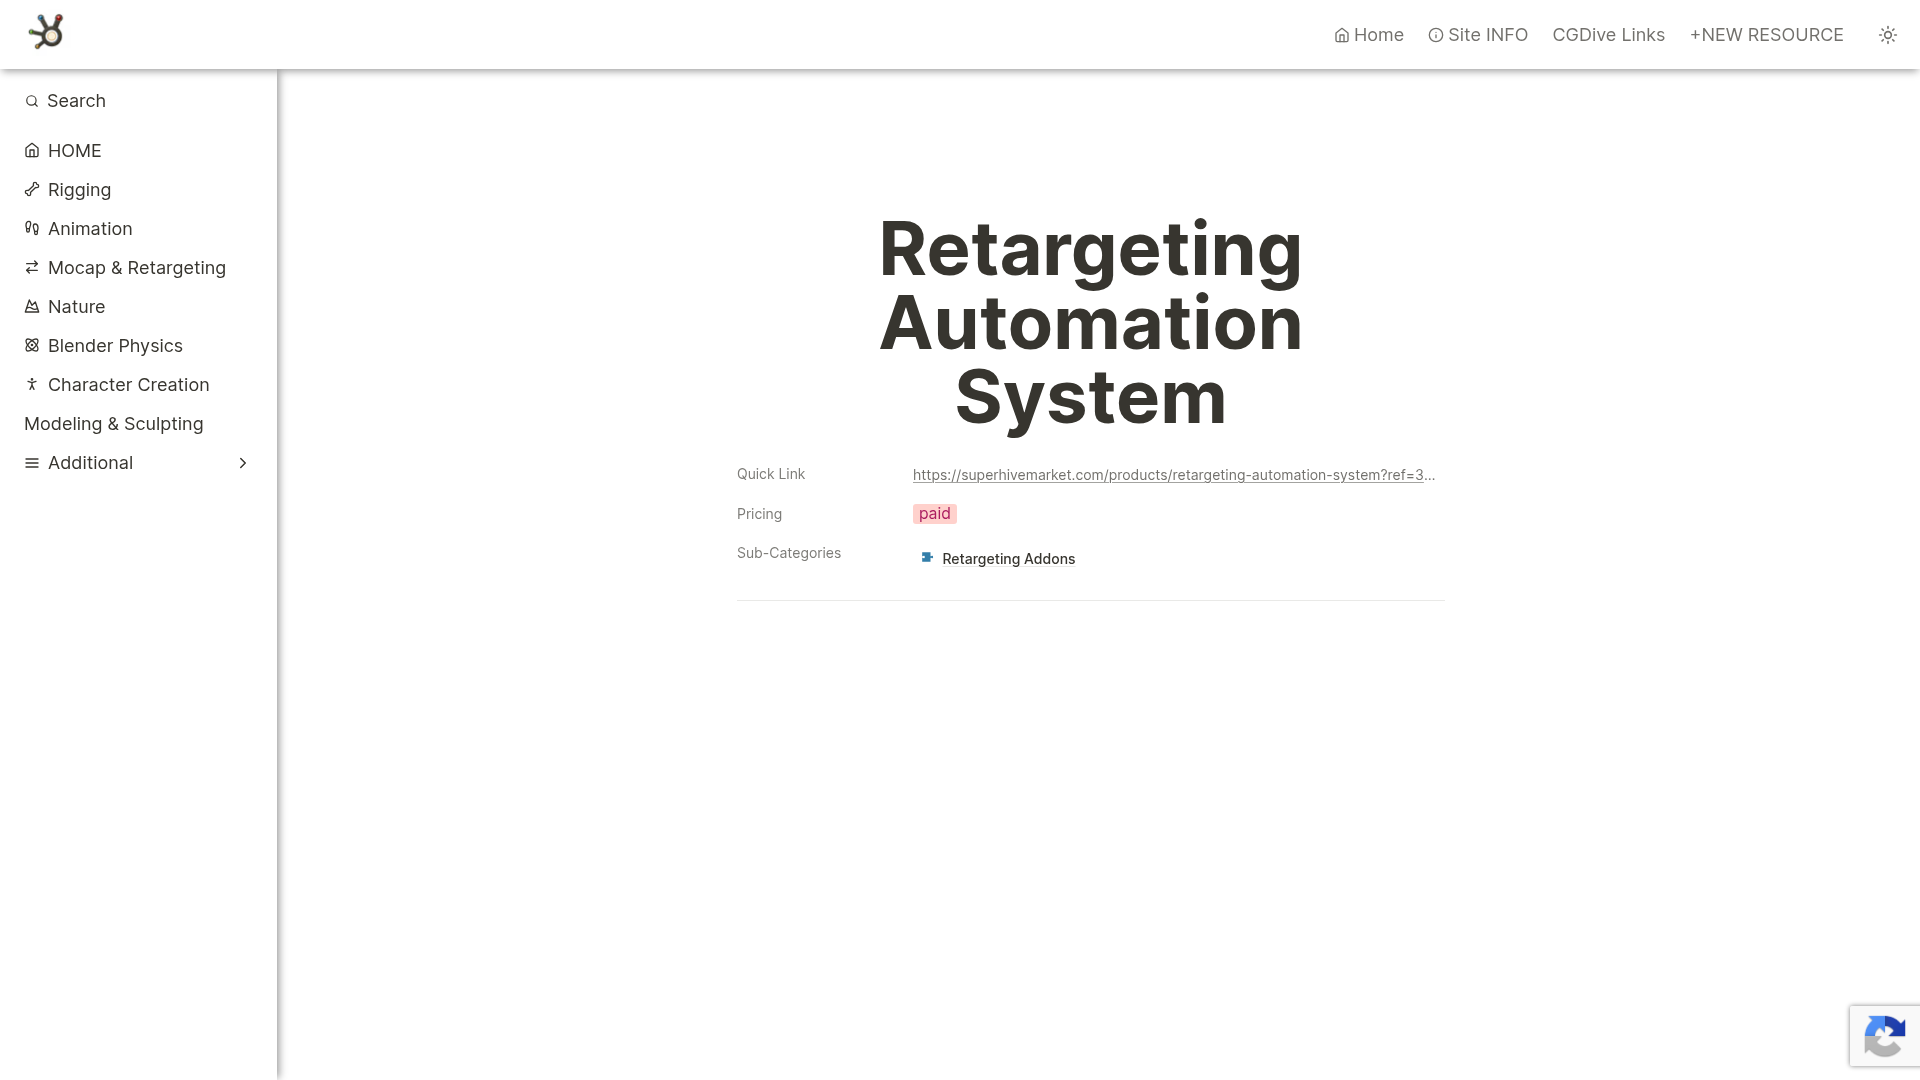
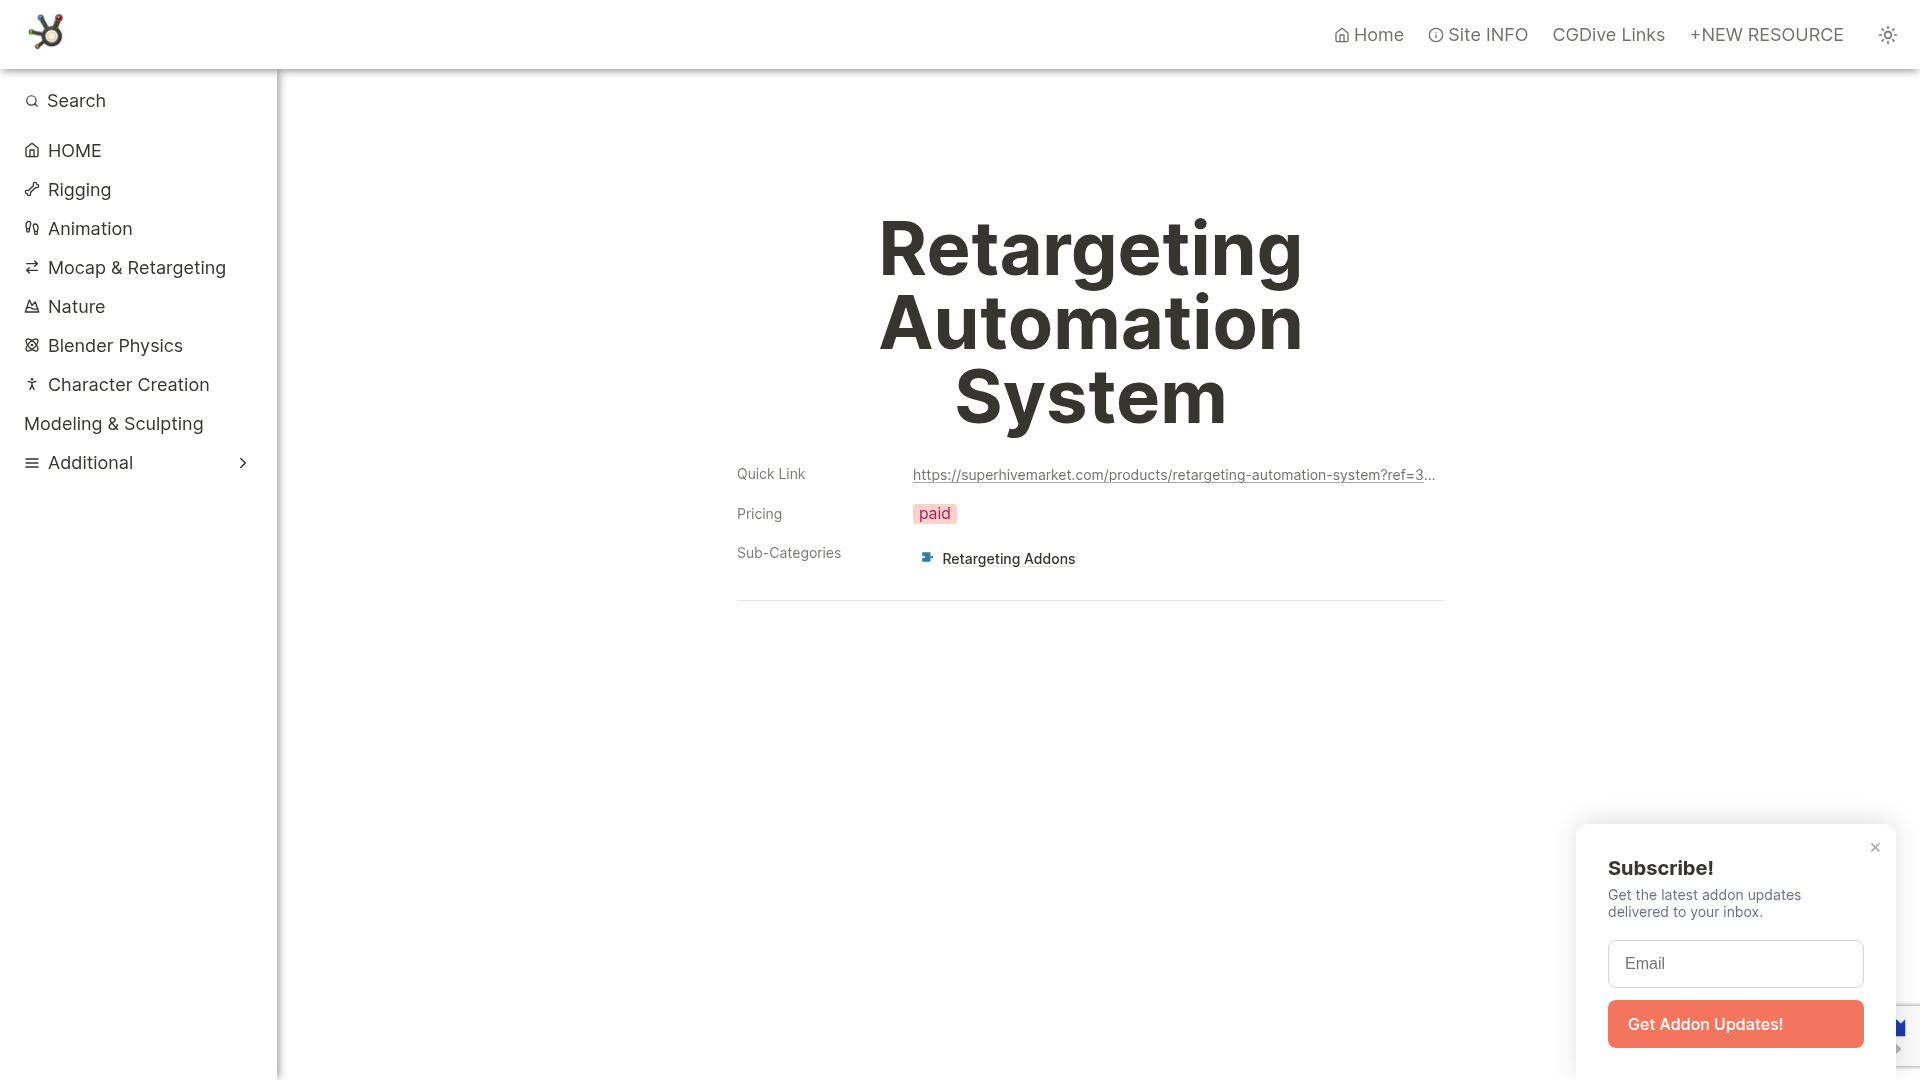
fix: remove duplicate videos, replace YouTube thumbnails with local screenshots, verify all embeds

Changed region(s): [[0.8125, 0.8861, 1.0, 0.9778], [0.8438, 0.7944, 0.9375, 0.8556]]

diff --git a/tools/pinoc_viggle.html b/tools/pinoc_viggle.html
@@ -65,11 +65,6 @@ img{max-width:100%}
 <iframe src="https://www.youtube.com/embed/xSsEN8FX0oU" style="position:absolute;top:0;left:0;width:100%;height:100%;border-radius:8px" frameborder="0" allow="accelerometer;autoplay;clipboard-write;encrypted-media;gyroscope;picture-in-picture" allowfullscreen></iframe>
 </div>
 <p style="color:#999;font-size:.85em">▲ Viggle AI — Video to 3D Motion Capture Demo</p>
-
-<div style="position:relative;padding-bottom:56.25%;height:0;max-width:720px;margin-top:1rem">
-<iframe src="https://www.youtube.com/embed/xSsEN8FX0oU" style="position:absolute;top:0;left:0;width:100%;height:100%;border-radius:8px" frameborder="0" allow="accelerometer;autoplay;clipboard-write;encrypted-media;gyroscope;picture-in-picture" allowfullscreen></iframe>
-</div>
-<p style="color:#999;font-size:.85em">▲ Viggle AI for Game Development — 遊戲動畫量產流程</p>
 </div>
 
 <hr>

diff --git a/tools/auto_rig_pro.html b/tools/auto_rig_pro.html
@@ -44,6 +44,7 @@ img{max-width:100%}
 </ul>
 
 <hr>
+<div style="margin:1.5rem 0;text-align:center"><img src="../images/auto_rig_pro.png" alt="auto_rig_pro" style="max-width:100%;border-radius:8px;border:1px solid #333"></div>
 
 <h2>功能詳細說明（Retargeting/Remap 模組）</h2>
 

diff --git a/tools/bvh_retargeter.html b/tools/bvh_retargeter.html
@@ -42,6 +42,7 @@ img{max-width:100%}
 </ul>
 
 <hr>
+<div style="margin:1.5rem 0;text-align:center"><img src="../images/bvh_retargeter.png" alt="bvh_retargeter" style="max-width:100%;border-radius:8px;border:1px solid #333"></div>
 
 <h2>功能詳細說明</h2>
 

diff --git a/tools/crowdsim3d.html b/tools/crowdsim3d.html
@@ -43,6 +43,7 @@ img{max-width:100%}
 </ul>
 
 <hr>
+<div style="margin:1.5rem 0;text-align:center"><img src="../images/crowdsim3d.png" alt="crowdsim3d" style="max-width:100%;border-radius:8px;border:1px solid #333"></div>
 
 <h2>功能詳細說明</h2>
 

diff --git a/tools/expy_kit.html b/tools/expy_kit.html
@@ -45,6 +45,7 @@ img{max-width:100%}
 </ul>
 
 <hr>
+<div style="margin:1.5rem 0;text-align:center"><img src="../images/expy_kit.png" alt="expy_kit" style="max-width:100%;border-radius:8px;border:1px solid #333"></div>
 
 <h2>功能詳細說明</h2>
 

diff --git a/tools/faceit.html b/tools/faceit.html
@@ -43,6 +43,7 @@ img{max-width:100%}
 </ul>
 
 <hr>
+<div style="margin:1.5rem 0;text-align:center"><img src="../images/faceit.png" alt="faceit" style="max-width:100%;border-radius:8px;border:1px solid #333"></div>
 
 <h2>功能詳細說明</h2>
 

diff --git a/tools/foot_locker.html b/tools/foot_locker.html
@@ -42,6 +42,7 @@ img{max-width:100%}
 </ul>
 
 <hr>
+<div style="margin:1.5rem 0;text-align:center"><img src="../images/foot_locker.png" alt="foot_locker" style="max-width:100%;border-radius:8px;border:1px solid #333"></div>
 
 <h2>功能詳細說明</h2>
 

diff --git a/tools/ragdoll_dynamics.html b/tools/ragdoll_dynamics.html
@@ -43,6 +43,7 @@ img{max-width:100%}
 </ul>
 
 <hr>
+<div style="margin:1.5rem 0;text-align:center"><img src="../images/ragdoll.png" alt="ragdoll_dynamics" style="max-width:100%;border-radius:8px;border:1px solid #333"></div>
 
 <h2>功能詳細說明</h2>
 

diff --git a/tools/root_motion_batch_transfer.html b/tools/root_motion_batch_transfer.html
@@ -42,6 +42,7 @@ img{max-width:100%}
 </ul>
 
 <hr>
+<div style="margin:1.5rem 0;text-align:center"><img src="../images/root_motion.png" alt="root_motion_batch_transfer" style="max-width:100%;border-radius:8px;border:1px solid #333"></div>
 
 <h2>功能詳細說明</h2>
 